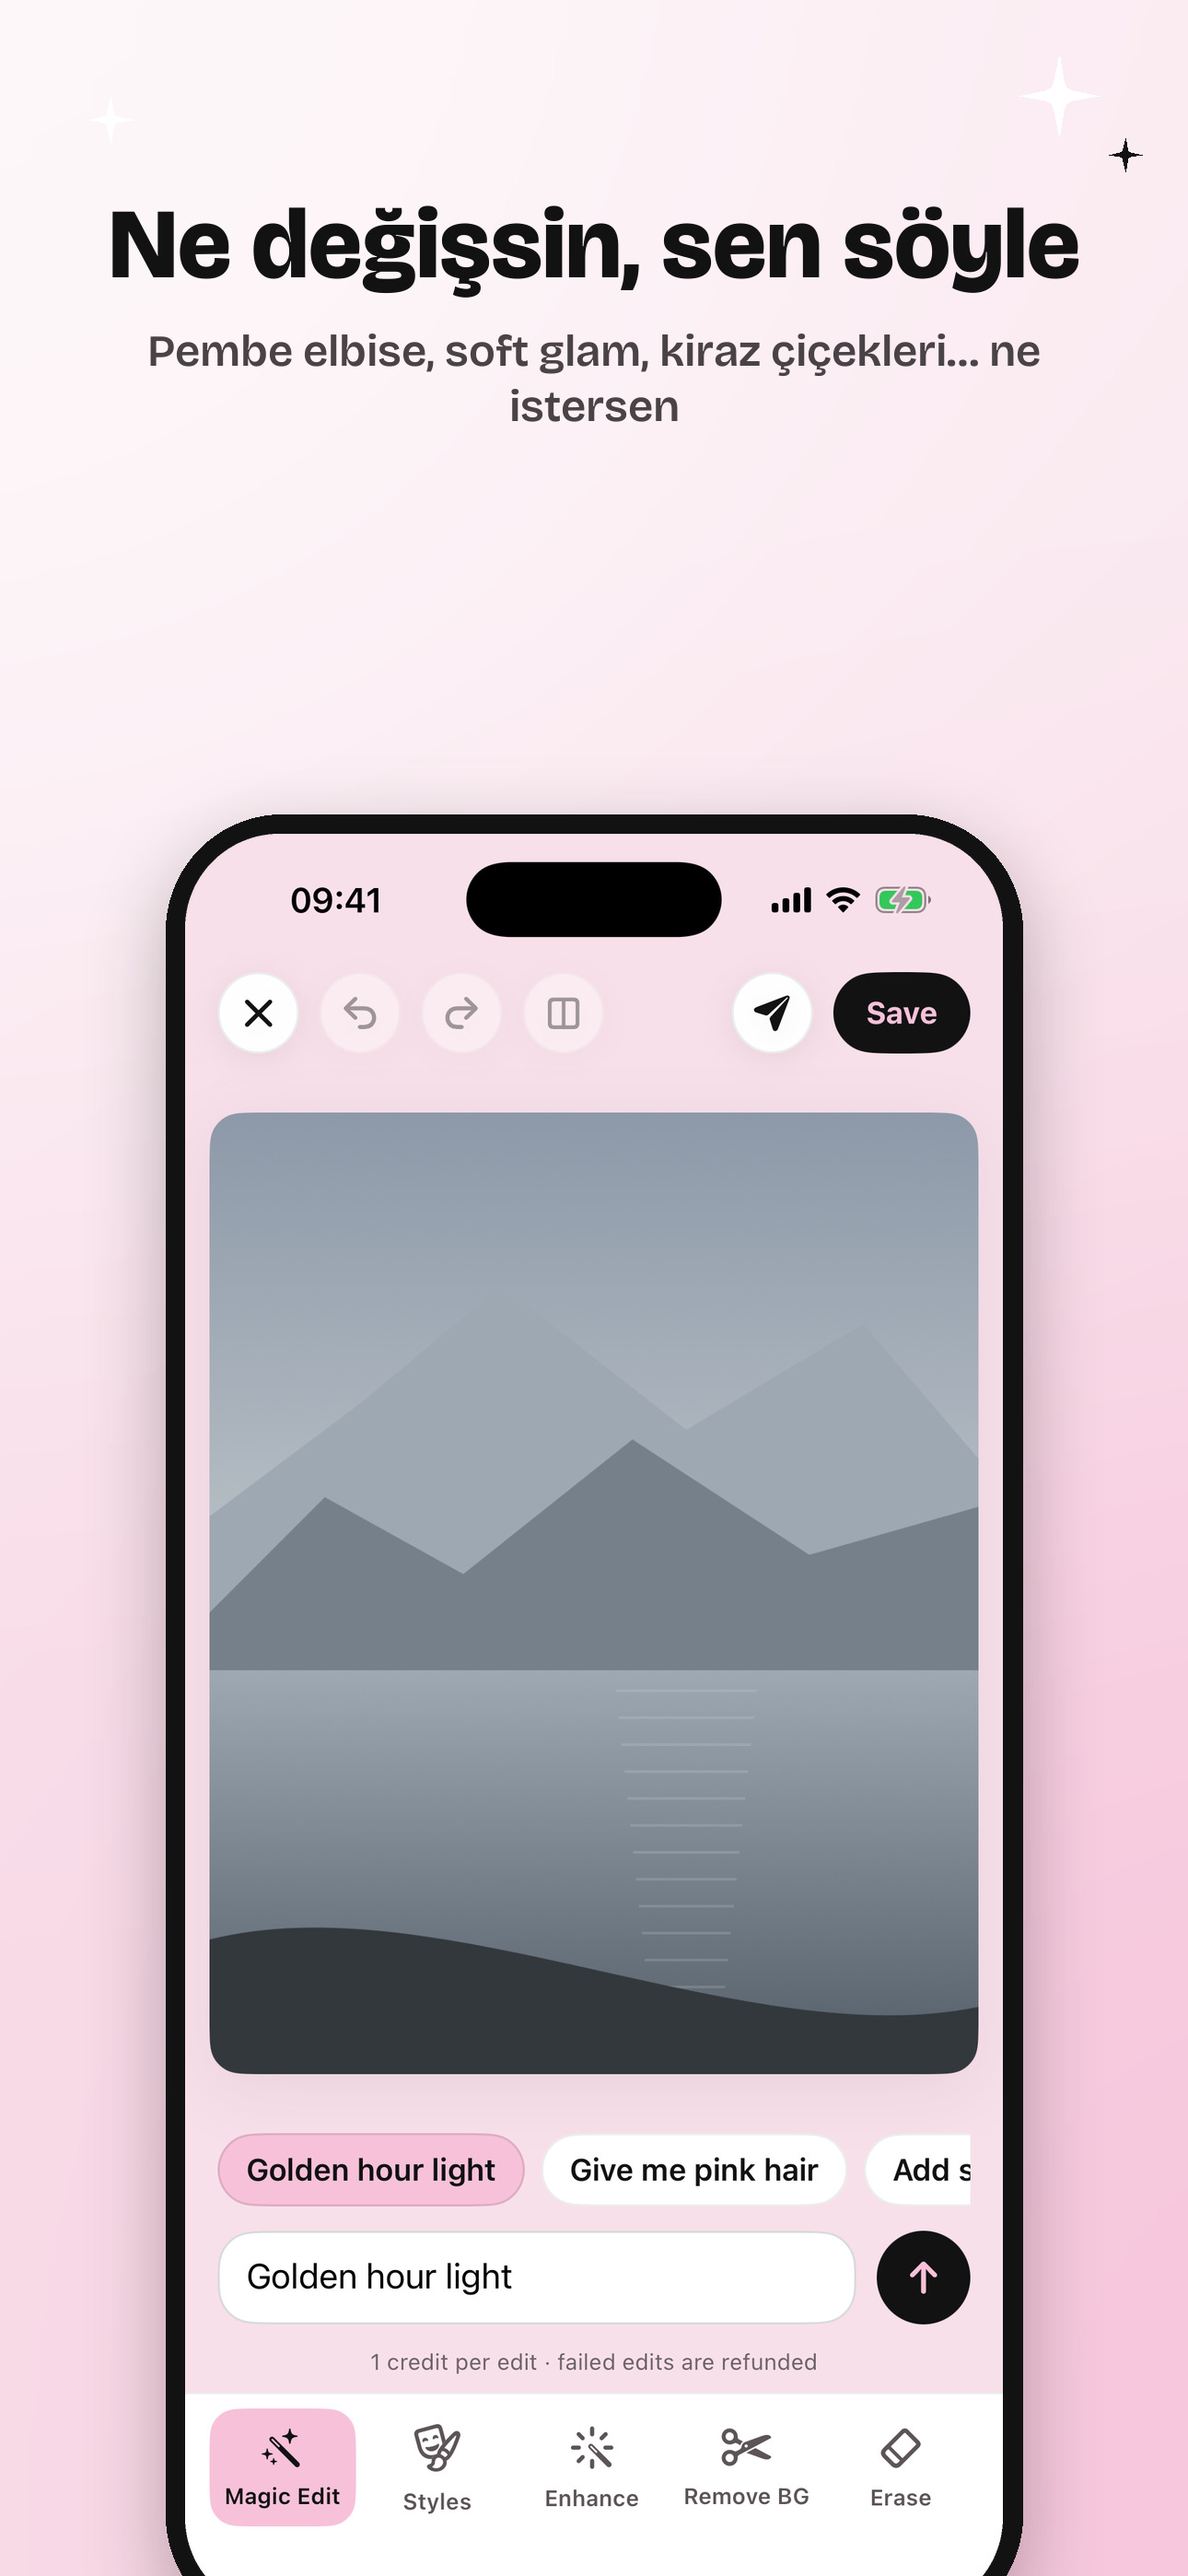
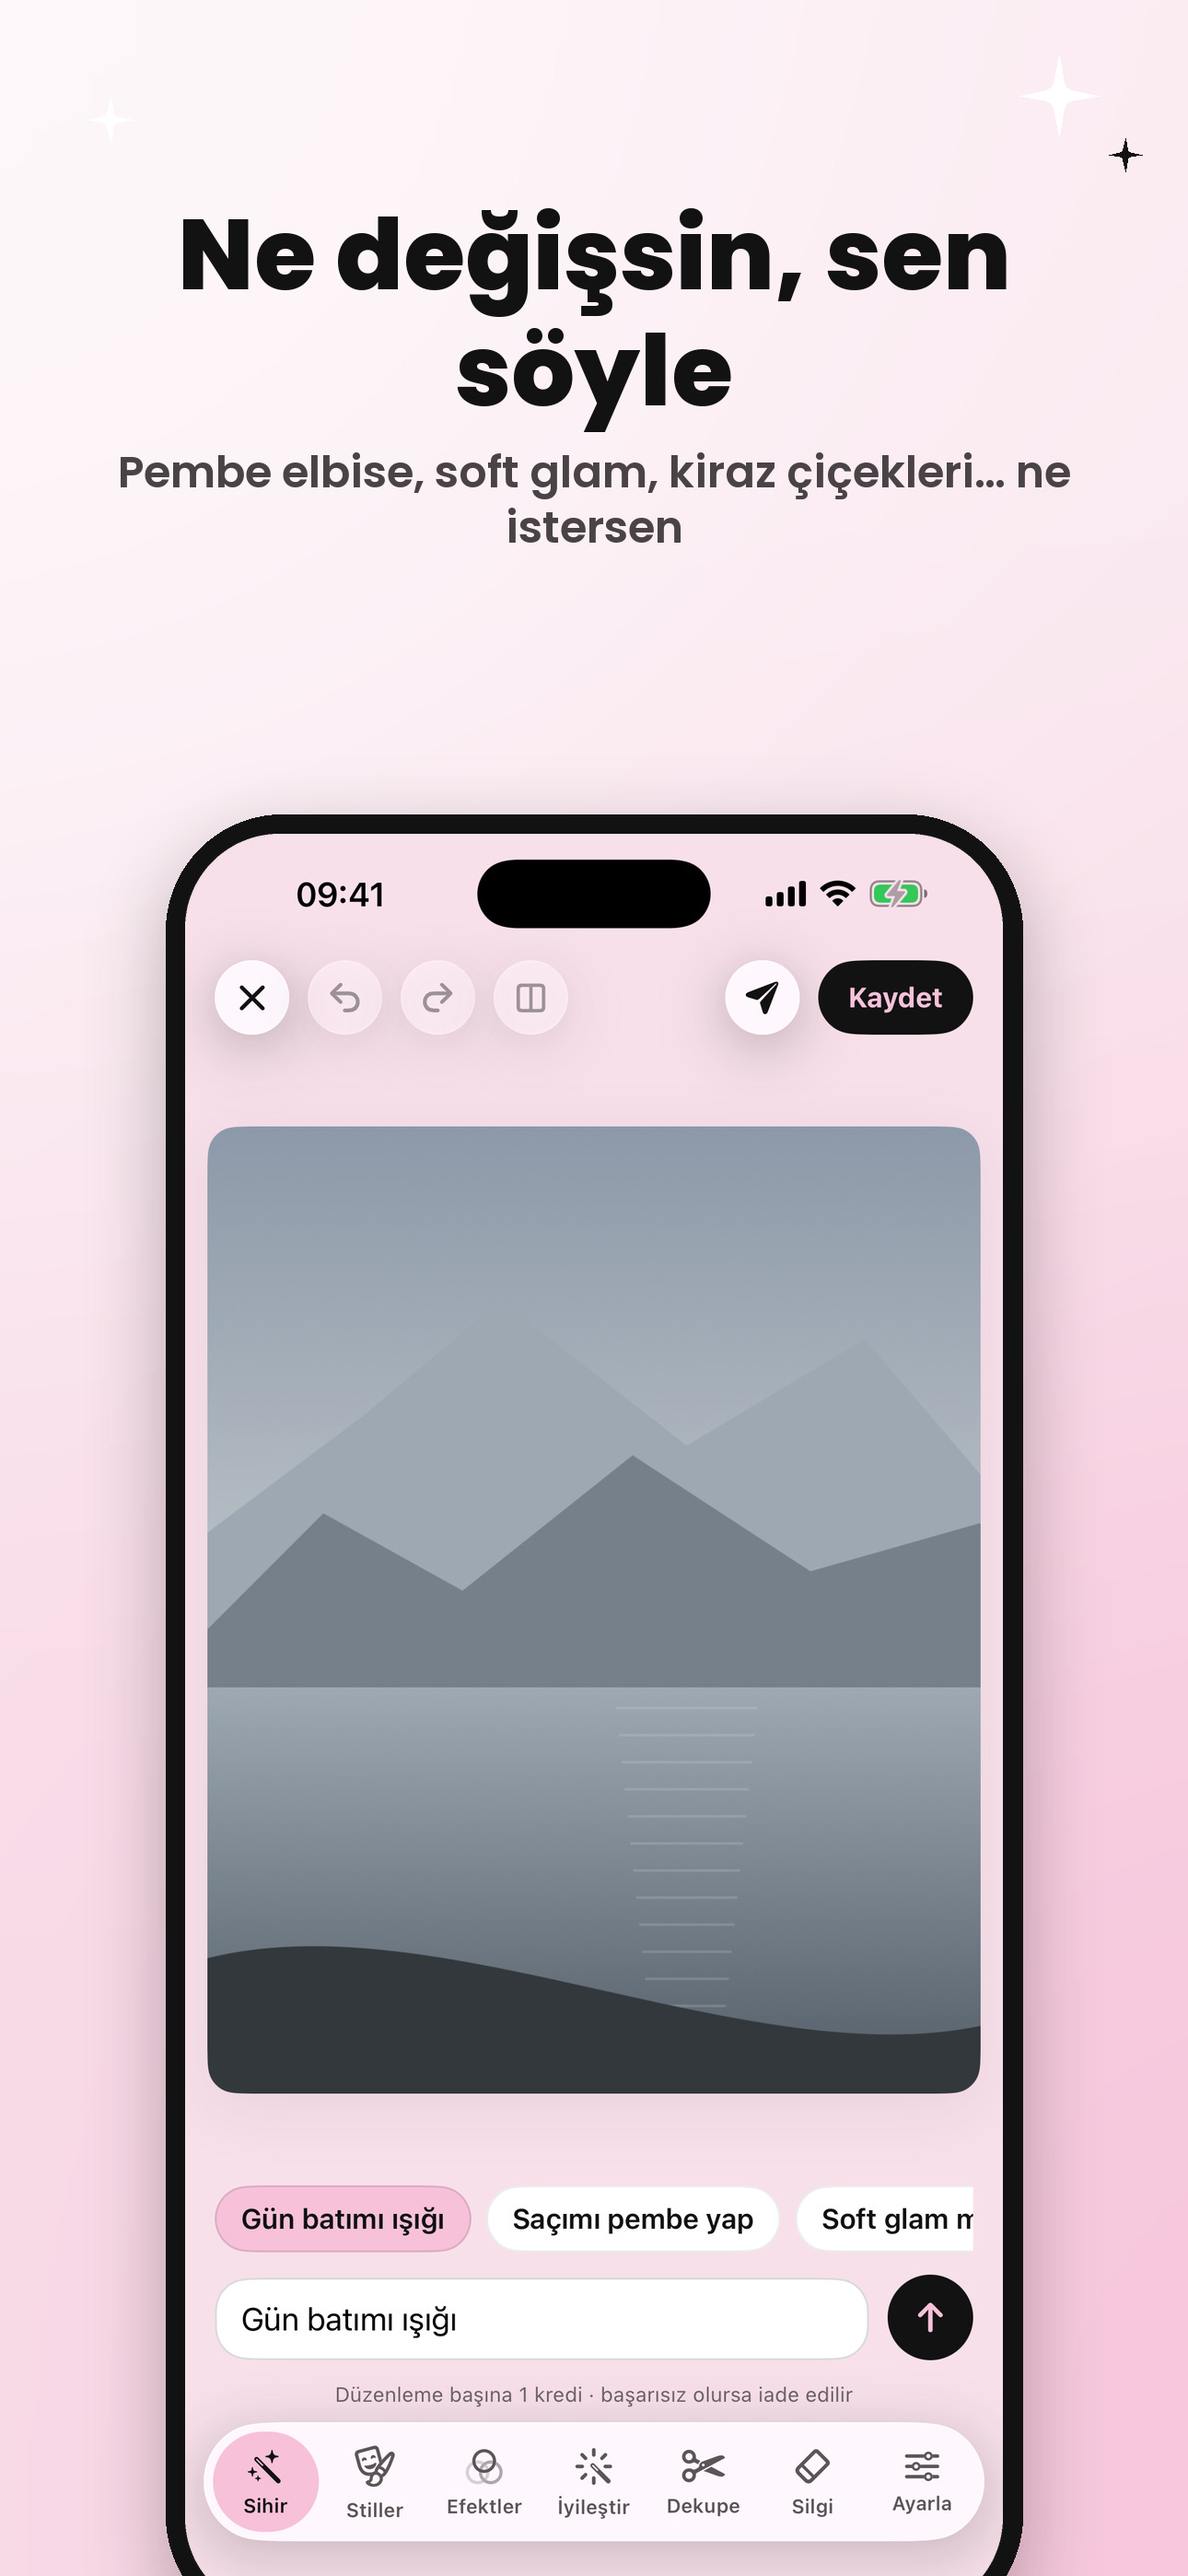
Add App Store screenshots for iPhone and iPad in English and Turkish
Nine images per set (Magic Edit, trends, effects, Cover star, sharing,
gallery, privacy, pricing); the demo-art results screen is left out. The
marketing script now writes iPad 13" images, uses per-language captures,
clears stale numbered files and refreshes the social and web images.

diff --git a/scripts/marketing-images.py b/scripts/marketing-images.py
@@ -251,6 +251,9 @@ def main() -> None:
             if not base.exists():
                 continue
             folder.mkdir(parents=True, exist_ok=True)
+            # Start clean so a shorter or reordered list leaves no stale images.
+            for old in folder.glob("[0-9][0-9]-*.jpg"):
+                old.unlink()
             for index, item in enumerate(items, start=1):
                 # The app in the listing's language when captured, else the plain capture.
                 capture = next((path for path in (base / lang / f"{item['scene']}.png", base / f"{item['scene']}.png") if path.exists()), None)
@@ -260,6 +263,8 @@ def main() -> None:
                 store_screenshot(capture, item["title"], item["subtitle"], index, ipad=ipad).save(
                     folder / f"{index:02d}-{item['scene']}.jpg", quality=92, subsampling=0
                 )
+    # Social and web images use the English captures when they're in en/.
+    captures = captures / "en" if (captures / "en" / "home.png").exists() else captures
     OUT_SOCIAL.mkdir(parents=True, exist_ok=True)
     OUT_WEB.mkdir(parents=True, exist_ok=True)
     screens = OUT_WEB / "screens"

diff --git a/docs/06-roadmap.md b/docs/06-roadmap.md
@@ -138,5 +138,6 @@ Legend: ✅ done in this repository · ⏳ next · 🔭 later
 - ✅ Control Center controls on iOS 18 (Magic Edit, Retro effects, Edit a video), also for the Lock Screen and the Action button; the "My glow" widget's shortcuts are now Magic, Effects and Video
 - ✅ Free on-device edits (effects, adjustments, cut-outs) save without a watermark; free cloud AI results keep the small mark
 - ⏳ Native-speaker review of the 11 translations
-- ⏳ Screenshots of the new screens (effects, video editor, Cover star, invite card, tour) for the README gallery and the App Store
+- ✅ App Store screenshots in English and Turkish for iPhone 6.9" and iPad 13" (Magic Edit, trends, effects, Cover star, sharing, gallery, privacy, pricing)
+- ⏳ Refresh the README gallery with the new screens (video editor, invite card, tour)
 
